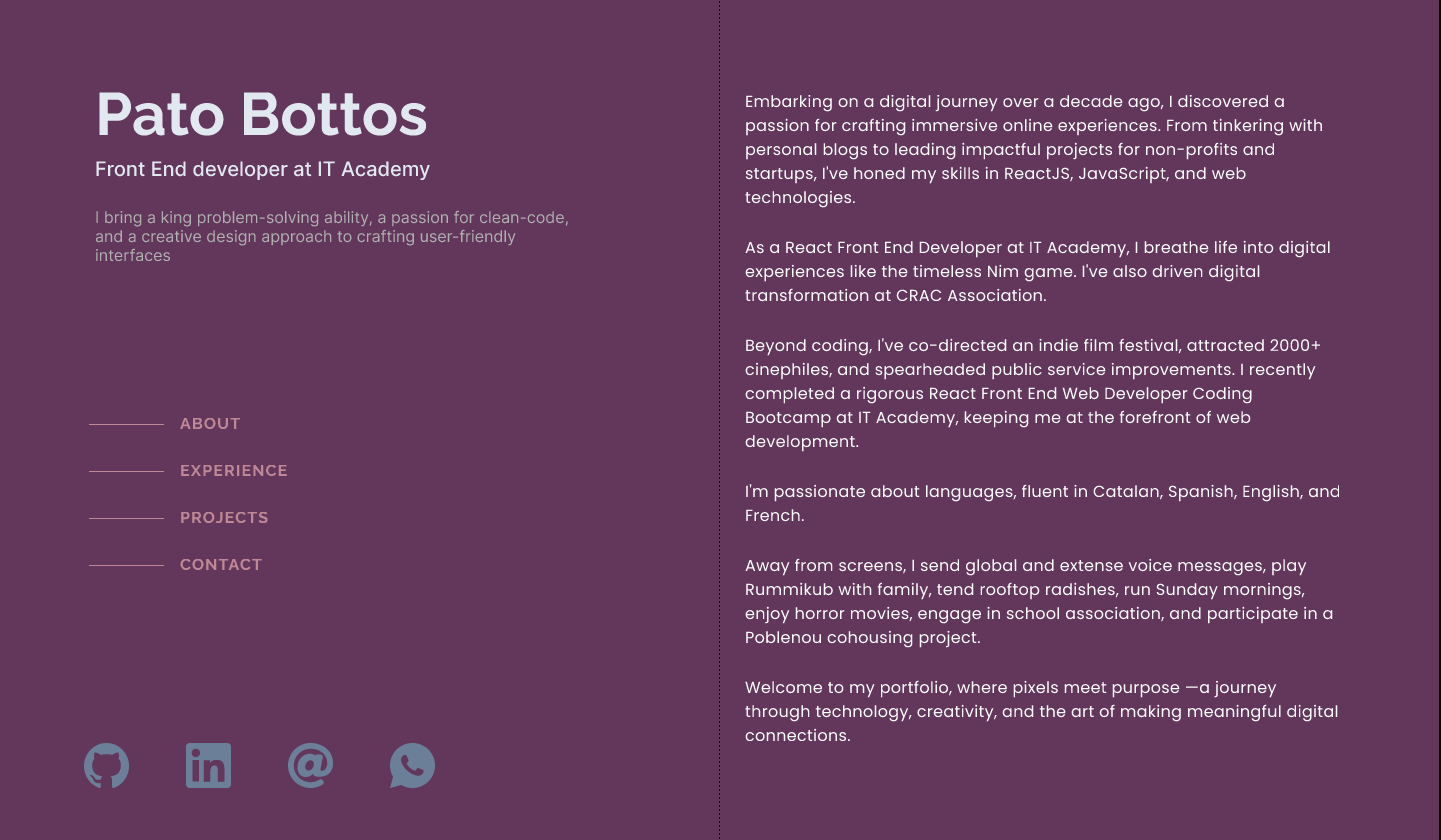
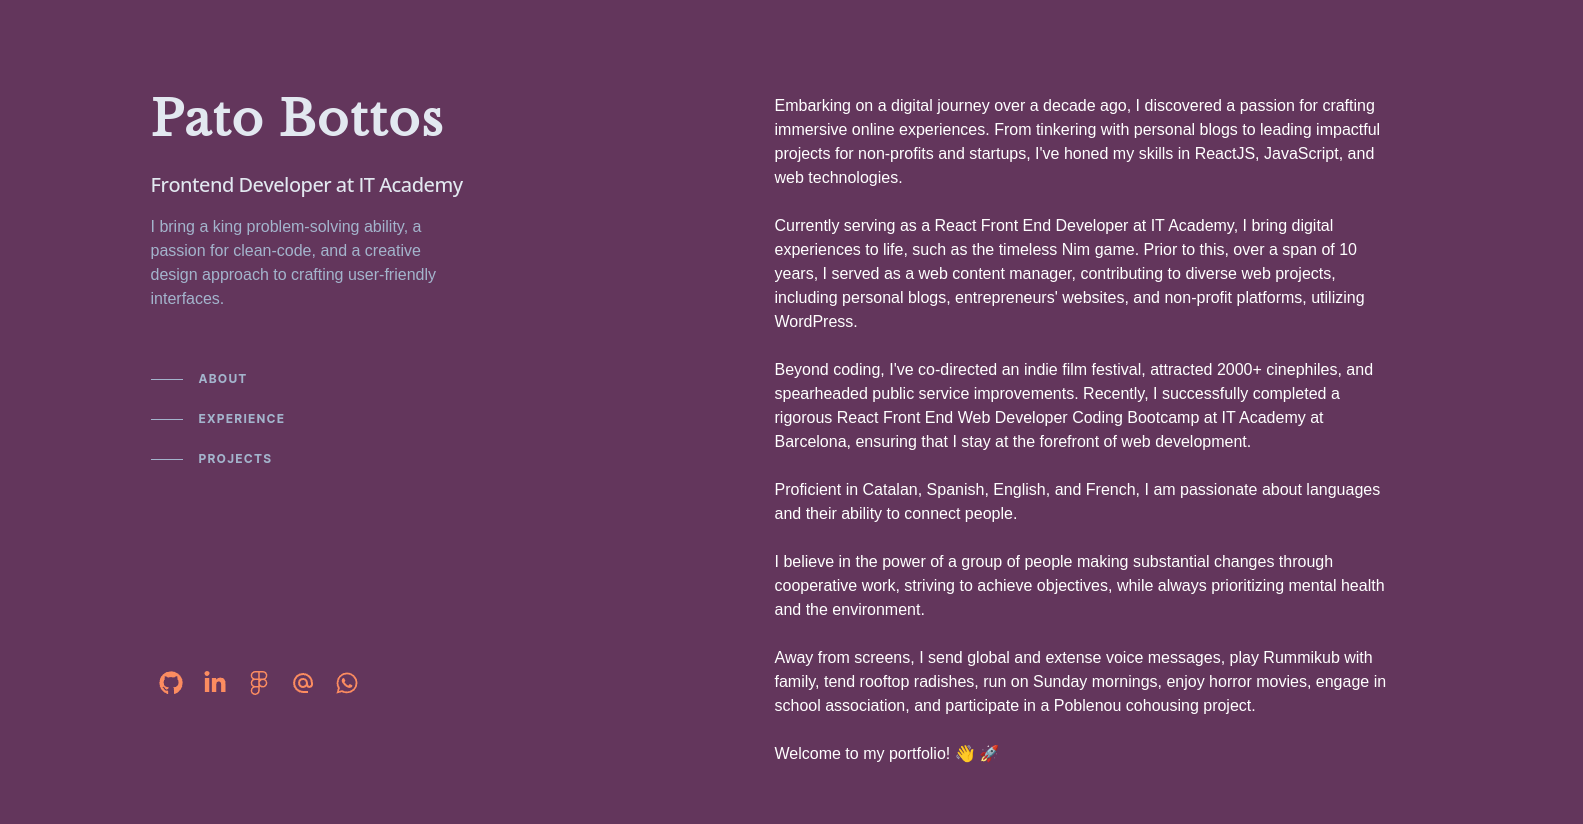
SectionTitles - enlarging sizes

diff --git a/src/app/components/ContactSection.tsx b/src/app/components/ContactSection.tsx
@@ -1,6 +1,7 @@
 import React from "react";
 import { FaLinkedinIn, FaWhatsapp } from "react-icons/fa6";
 import { MdOutlineAlternateEmail } from "react-icons/md";
+import SectionTitle from "@/app/components/SectionTitle";
 
 const ContactSection = () => {
   return (
@@ -9,11 +10,7 @@ const ContactSection = () => {
       className="mb-16 scroll-mt-16 md:mb-24 lg:mb-36 lg:scroll-mt-24"
       aria-label="Contact"
     >
-      <div className="sticky top-0 bg-royal/75 backdrop-blur z-20 mb-4 w-screen py-5 md:-mx-12 md:px-12 lg:sr-only lg:relative lg:top-auto lg:mx-auto lg:w-full lg:px-0 lg:py-0 lg:opacity-0">
-        <h2 className="text-sm font-bold uppercase tracking-widest text-cream">
-          Contact
-        </h2>
-      </div>
+      <SectionTitle title="Contact" />
       <div className="flex items-center">
         <ul className="mt-6 flex items-center p-1">
           <li className="mr-10">

diff --git a/src/app/components/ProjectsSection.tsx b/src/app/components/ProjectsSection.tsx
@@ -1,20 +1,16 @@
 import React from "react";
 import Pill from "./Pill";
 import ProjectCard from "./ProjectCard";
+import SectionTitle from "./SectionTitle";
 
 const ProjectsSection = () => {
   return (
     <section
       id="projects"
-      className="mb-16 scroll-mt-16 md:mb-24 lg:mb-36 lg:scroll-mt-24"
+      className="mb-16 scroll-mt-24 md:mb-24 lg:mb-36"
       aria-label="Projects"
     >
-      <div className="sticky top-0 bg-royal/75 backdrop-blur z-20 mb-4 w-screen py-5 md:-mx-12 md:px-12 lg:sr-only lg:relative lg:top-auto lg:mx-auto lg:w-full lg:px-0 lg:py-0 lg:opacity-0">
-        <h2 className="text-sm font-bold uppercase tracking-widest text-cream">
-          Projects
-        </h2>
-      </div>
-
+      <SectionTitle title="Projects" />
       <ProjectCard
         project_title="Nim Strategy Game App"
         image_url="/nim1.png"

diff --git a/src/app/components/ExperienceSection.tsx b/src/app/components/ExperienceSection.tsx
@@ -1,18 +1,15 @@
 import React from "react";
 import ExperienceCard from "./ExperienceCard";
+import SectionTitle from "./SectionTitle";
 
 const ExperienceSection = () => {
   return (
     <section
       id="experience"
-      className="mb-16 scroll-mt-16 md:mb-24 lg:mb-36 lg:scroll-mt-24"
+      className="mb-16 scroll-mt-24 md:mb-24 lg:mb-36"
       aria-label="Experience"
     >
-      <div className="sticky top-0 bg-royal/75 backdrop-blur z-20 mb-4 w-screen py-5 md:-mx-12 md:px-12 lg:sr-only lg:relative lg:top-auto lg:mx-auto lg:w-full lg:px-0 lg:py-0 lg:opacity-0">
-        <h2 className="text-sm font-bold uppercase tracking-widest text-cream">
-          Experience
-        </h2>
-      </div>
+      <SectionTitle title="Experience" />
       <div>
         <ExperienceCard
           year="2022 - Present"

diff --git a/src/app/components/AboutSection.tsx b/src/app/components/AboutSection.tsx
@@ -1,17 +1,14 @@
 import React from "react";
+import SectionTitle from "./SectionTitle";
 
 const AboutSection = () => {
   return (
     <section
       id="about"
-      className="mb-16 scroll-mt-16 md:mb-24 lg:mb-36 lg:scroll-mt-24"
+      className="mb-16 scroll-mt-24 md:mb-24 lg:mb-36"
       aria-label="About me"
     >
-      <div className="sticky top-0 bg-royal/75 backdrop-blur z-20 mb-4 w-screen py-5 md:-mx-12 md:px-12 lg:sr-only lg:relative lg:top-auto lg:mx-auto lg:w-full lg:px-0 lg:py-0 lg:opacity-0">
-        <h2 className="text-sm font-bold uppercase tracking-widest text-cream">
-          About
-        </h2>
-      </div>
+      <SectionTitle title="About" />
       <div>
         <div className="text-white">
           Embarking on a digital journey over a decade ago, I discovered a

diff --git a/src/app/components/SectionTitle.tsx b/src/app/components/SectionTitle.tsx
@@ -1,0 +1,16 @@
+import React from "react";
+
+type SectionTitleProps = {
+  title: string;
+};
+
+function SectionTitle({ title }: SectionTitleProps) {
+  return (
+    <div className="sticky top-0 bg-royal/75 backdrop-blur z-20 w-screen pt-14 pb-6 scroll-mt-8">
+      <h2 className="text-base font-bold uppercase tracking-widest text-cream">
+        {title}
+      </h2>
+    </div>
+  );
+}
+export default SectionTitle;
